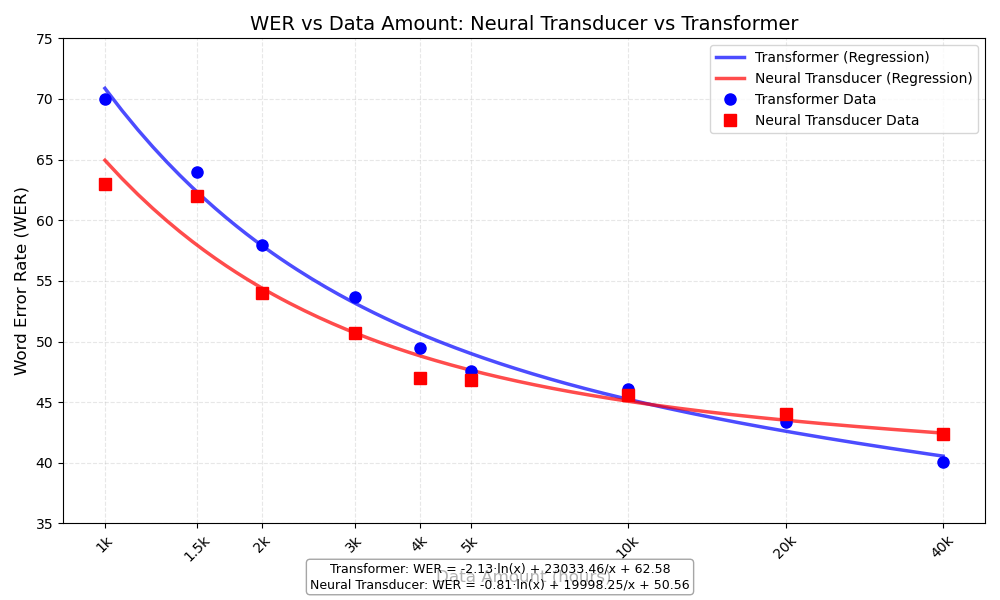
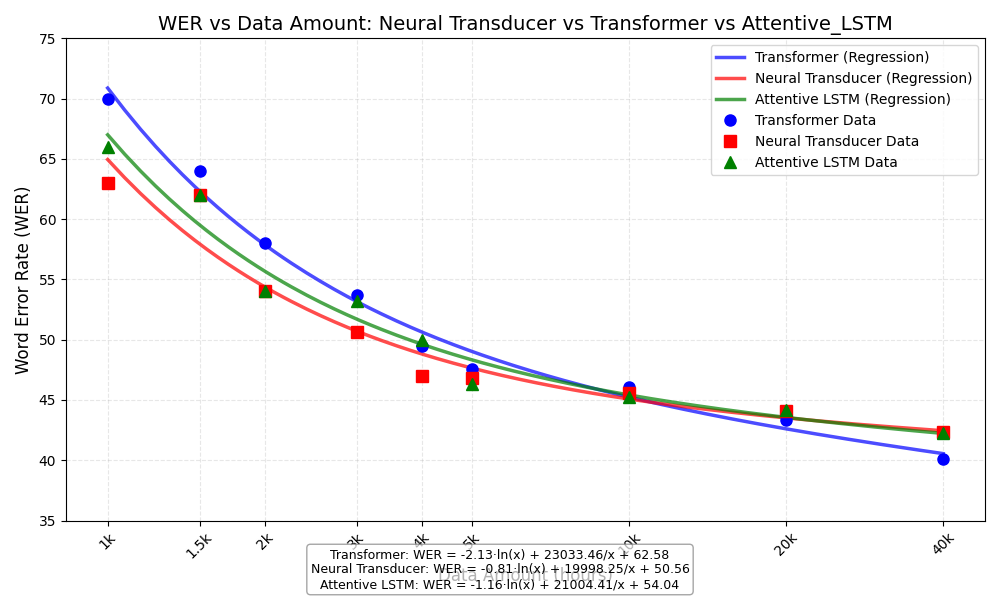
2024_results

diff --git a/eng_us_data/graph.py b/eng_us_data/graph.py
@@ -6,6 +6,7 @@ from scipy.optimize import curve_fit
 data_amounts = [1000, 1500, 2000, 3000, 4000, 5000, 10000, 20000, 40000]
 transformer_wer = [70, 64, 58, 53.67, 49.5, 47.6, 46.1, 43.35, 40.1]
 neural_wer = [63, 62, 54, 50.67, 47, 46.8, 45.6, 44.05, 42.38]
+attentive_lstm_wer = [66, 62, 54, 53.2, 50, 46.3, 45.21, 44.13, 42.23]
 
 # Logarithmic function for regression
 def log_func(x, a, b, c):
@@ -15,22 +16,25 @@ def log_func(x, a, b, c):
 x_smooth = np.linspace(1000, 40000, 500)
 params_trans, _ = curve_fit(log_func, data_amounts, transformer_wer)
 params_neural, _ = curve_fit(log_func, data_amounts, neural_wer)
+params_atten, _ = curve_fit(log_func, data_amounts, attentive_lstm_wer)
 trans_pred = log_func(x_smooth, *params_trans)
 neural_pred = log_func(x_smooth, *params_neural)
+atten_pred = log_func(x_smooth, *params_atten)
 
 # Plot setup
 plt.figure(figsize=(10, 6))
 plt.plot(x_smooth, trans_pred, 'b-', linewidth=2.5, alpha=0.7, label='Transformer (Regression)')
 plt.plot(x_smooth, neural_pred, 'r-', linewidth=2.5, alpha=0.7, label='Neural Transducer (Regression)')
+plt.plot(x_smooth, atten_pred, 'g-', linewidth=2.5, alpha=0.7, label='Attentive LSTM (Regression)')
 plt.plot(data_amounts, transformer_wer, 'bo', markersize=8, label='Transformer Data')
 plt.plot(data_amounts, neural_wer, 'rs', markersize=8, label='Neural Transducer Data')
-
+plt.plot(data_amounts, attentive_lstm_wer, 'g^', markersize=8, label='Attentive LSTM Data')
 # Formatting
 plt.xscale('log', base=2)
 plt.xticks(data_amounts, ['1k', '1.5k', '2k', '3k', '4k', '5k', '10k', '20k', '40k'], rotation=45)
 plt.xlabel('Data Amount (hours)', fontsize=12)
 plt.ylabel('Word Error Rate (WER)', fontsize=12)
-plt.title('WER vs Data Amount: Neural Transducer vs Transformer', fontsize=14)
+plt.title('WER vs Data Amount: Neural Transducer vs Transformer vs Attentive_LSTM', fontsize=14)
 plt.legend()
 plt.grid(True, which="both", ls="--", alpha=0.3)
 plt.ylim(35, 75)
@@ -38,7 +42,8 @@ plt.tight_layout()
 
 # Add regression equations
 eq_text = (f'Transformer: WER = {params_trans[0]:.2f}·ln(x) + {params_trans[1]:.2f}/x + {params_trans[2]:.2f}\n'
-           f'Neural Transducer: WER = {params_neural[0]:.2f}·ln(x) + {params_neural[1]:.2f}/x + {params_neural[2]:.2f}')
+           f'Neural Transducer: WER = {params_neural[0]:.2f}·ln(x) + {params_neural[1]:.2f}/x + {params_neural[2]:.2f}\n'
+           f'Attentive LSTM: WER = {params_atten[0]:.2f}·ln(x) + {params_atten[1]:.2f}/x + {params_atten[2]:.2f}')
 plt.annotate(eq_text, xy=(0.5, 0.02), xycoords='figure fraction', 
              ha='center', fontsize=9, bbox=dict(boxstyle="round,pad=0.3", fc="white", ec="gray", alpha=0.7))
 

diff --git a/README.md b/README.md
@@ -1,72 +1,72 @@
 # Our Results
 
-| Language                 | Pair n-Gram Model<br/>(baseline 2020) | Encoder-decoder Transformer<br/>(baseline 2020) | Neural Transducer<br/>(baseline 2021/22) | GRU (Hard Attention)<br/>(baseline 2024) |
-|--------------------------|---------------------------------------|-------------------------------------------------|------------------------------------------|------------------------------------------|
-| Adyghe                   | 27.00                                 | 39.00                                           | 20.00                                    | 41.00                                    |
-| Arabic                   | 43.00                                 | 43.00                                           | 53.00                                    | 58.00                                    |
-| Armenian (Eastern)       | 17.00                                 | 16.00                                           | 15.00                                    | 58.00                                    |
-| Assamese                 | 14.00                                 | 15.00                                           | 7.00                                     | 15.00                                    |
-| Belarusian               | 7.00                                  | 6.00                                            | 2.00                                     | 10.00                                    |
-| Bengali                  | 70.00                                 | 78.00                                           | 68.00                                    | 80.00                                    |
-| Bulgarian                | 37.00                                 | 30.00                                           | 32.00                                    | 50.00                                    |
-| Burmese                  | 39.00                                 | 41.00                                           | 29.00                                    |                                          |
-| Cebuano                  | 22.00                                 | 26.00                                           | 20.00                                    | 53.00                                    |
-| Central Khmer            | 56.00                                 | 43.00                                           | 31.00                                    | 52.00                                    |
-| Dutch                    | 32.00                                 | 29.00                                           | 24.00                                    | 37.00                                    |
-| Eastern Lawa             | 44.00                                 | 24.00                                           | 8.00                                     | 47.00                                    |
-| English                  | 70.00                                 | 70.00                                           | 63.00                                    | 73.00                                    |
-| French                   | 31.00                                 | 29.00                                           | 23.00                                    | 46.00                                    |
-| Georgian                 | 0.00                                  | 4.00                                            | 0.00                                     | 9.00                                     |
-| German                   | 49.00                                 | 56.00                                           | 46.00                                    | 64.00                                    |
-| Greek                    | 27.00                                 | 26.00                                           | 20.00                                    | 41.00                                    |
-| Hindi                    | 23.00                                 | 24.00                                           | 11.00                                    | 39.00                                    |
-| Hungarian                | 9.00                                  | 11.00                                           | 7.00                                     | 17.00                                    |
-| Icelandic                | 35.00                                 | 24.00                                           | 12.00                                    | 36.00                                    |
-| Indonesian               | 58.00                                 | 52.00                                           | 64.00                                    | 62.00                                    |
-| Irish                    | 57.00                                 | 46.00                                           | 43.00                                    | 53.00                                    |
-| Italian                  | 22.00                                 | 21.00                                           | 15.00                                    | 30.00                                    |
-| Japanese (Hiragana)      | 23.00                                 | 20.00                                           | 10.00                                    | 21.00                                    |
-| Korean                   | 81.00                                 | 89.00                                           | 23.00                                    | 98.00                                    |
-| Latvian                  | 51.00                                 | 51.00                                           | 51.00                                    | 54.00                                    |
-| Lithuanian               | 32.00                                 | 35.00                                           | 33.00                                    | 44.00                                    |
-| Macedonian               | 6.00                                  | 5.00                                            | 5.00                                     | 17.00                                    |
-| Maltese (Latin)          | 27.00                                 | 24.00                                           | 17.00                                    | 31.00                                    |
-| Norwegian Nynorsk        | 61.00                                 | 69.00                                           | 66.00                                    | 68.00                                    |
-| Pashto                   | 70.00                                 | 68.00                                           | 67.00                                    | 68.00                                    |
-| Persian (Classical)      | 51.00                                 | 58.00                                           | 57.00                                    | 60.00                                    |
-| Persian (Iranian)        | 66.00                                 | 63.00                                           | 65.00                                    | 69.00                                    |
-| Romanian                 | 10.00                                 | 17.00                                           | 9.00                                     | 32.00                                    |
-| Russian                  | 31.00                                 | 21.00                                           | 23.00                                    | 35.00                                    |
-| Serbo-Croatian (Latin)   | 84.00                                 | 69.00                                           | 64.00                                    | 72.00                                    |
-| Shan                     | 6.00                                  | 10.00                                           | 5.00                                     | 21.00                                    |
-| Slovenian                | 73.00                                 | 52.00                                           | 56.00                                    | 62.00                                    |
-| Spanish                  | 3.00                                  | 10.00                                           | 4.00                                     | 18.00                                    |
-| Swedish                  | 67.00                                 | 68.00                                           | 59.00                                    | 68.00                                    |
-| Tagalog                  | 11.00                                 | 17.00                                           | 13.00                                    | 20.00                                    |
-| Thai                     | 70.00                                 | 49.00                                           | 39.00                                    | 62.00                                    |
-| Ukrainian                | 27.00                                 | 26.00                                           | 19.00                                    | 23.00                                    |
-| Urdu                     | 67.00                                 | 66.00                                           | 72.00                                    | 81.00                                    |
-| Vietnamese (Hanoi)       | 44.00                                 | 20.00                                           | 5.00                                     | 12.00                                    |
-| Welsh                    | 33.00                                 | 20.00                                           | 12.00                                    | 27.00                                    |
-| Welsh (Southern Dialect) | 28.00                                 | 18.00                                           | 13.00                                    | 27.00                                    |
-| **Macro-average WER**    | **38.53**                             | **36.13**                                       | **29.79**                                | **44.98**                                |
+| Language                 | Pair n-Gram Model<br/>(baseline 2020) | Encoder-decoder Transformer<br/>(baseline 2020) | Neural Transducer<br/>(baseline 2021/22) | Attentive_LSTM<br/>(baseline 2024)|
+|--------------------------|---------------------------------------|-------------------------------------------------|------------------------------------------|-----------------------------------|
+| Adyghe                   | 27.00                                 | 39.00                                           | 20.00                                    | 30.00                             |
+| Arabic                   | 43.00                                 | 43.00                                           | 53.00                                    | 45.00                             |
+| Armenian (Eastern)       | 17.00                                 | 16.00                                           | 15.00                                    | 20.00                             |
+| Assamese                 | 14.00                                 | 15.00                                           | 7.00                                     | 12.00                             |
+| Belarusian               | 7.00                                  | 6.00                                            | 2.00                                     | 2.00                              |
+| Bengali                  | 70.00                                 | 78.00                                           | 68.00                                    | 67.00                             |
+| Bulgarian                | 37.00                                 | 30.00                                           | 32.00                                    | 27.00                             |
+| Burmese                  | 39.00                                 | 41.00                                           | 29.00                                    | 35.00                             |
+| Cebuano                  | 22.00                                 | 26.00                                           | 20.00                                    | 20.00                             |
+| Central Khmer            | 56.00                                 | 43.00                                           | 31.00                                    | 35.00                             |
+| Dutch                    | 32.00                                 | 29.00                                           | 24.00                                    | 23.00                             |
+| Eastern Lawa             | 44.00                                 | 24.00                                           | 8.00                                     | 12.00                             |
+| English                  | 70.00                                 | 70.00                                           | 63.00                                    | 66.00                             |
+| French                   | 31.00                                 | 29.00                                           | 23.00                                    | 27.00                             |
+| Georgian                 | 0.00                                  | 4.00                                            | 0.00                                     | 1.00                              |
+| German                   | 49.00                                 | 56.00                                           | 46.00                                    | 45.00                             |
+| Greek                    | 27.00                                 | 26.00                                           | 20.00                                    | 27.00                             |
+| Hindi                    | 23.00                                 | 24.00                                           | 11.00                                    | 13.00                             |
+| Hungarian                | 9.00                                  | 11.00                                           | 7.00                                     | 8.00                              |
+| Icelandic                | 35.00                                 | 24.00                                           | 12.00                                    | 16.00                             |
+| Indonesian               | 58.00                                 | 52.00                                           | 64.00                                    | 73.00                             |
+| Irish                    | 57.00                                 | 46.00                                           | 43.00                                    | 39.00                             |
+| Italian                  | 22.00                                 | 21.00                                           | 15.00                                    | 16.00                             |
+| Japanese (Hiragana)      | 23.00                                 | 20.00                                           | 10.00                                    | 12.00                             |
+| Korean                   | 81.00                                 | 89.00                                           | 23.00                                    | 100.00                            |
+| Latvian                  | 51.00                                 | 51.00                                           | 51.00                                    | 50.00                             |
+| Lithuanian               | 32.00                                 | 35.00                                           | 33.00                                    | 31.00                             |
+| Macedonian               | 6.00                                  | 5.00                                            | 5.00                                     | 5.00                              |
+| Maltese (Latin)          | 27.00                                 | 24.00                                           | 17.00                                    | 22.00                             |
+| Norwegian Nynorsk        | 61.00                                 | 69.00                                           | 66.00                                    | 69.00                             |
+| Pashto                   | 70.00                                 | 68.00                                           | 67.00                                    | 66.00                             |
+| Persian (Classical)      | 51.00                                 | 58.00                                           | 57.00                                    | 51.00                             |
+| Persian (Iranian)        | 66.00                                 | 63.00                                           | 65.00                                    | 65.00                             |
+| Romanian                 | 10.00                                 | 17.00                                           | 9.00                                     | 17.00                             |
+| Russian                  | 31.00                                 | 21.00                                           | 23.00                                    | 25.00                             |
+| Serbo-Croatian (Latin)   | 84.00                                 | 69.00                                           | 64.00                                    | 69.00                             |
+| Shan                     | 6.00                                  | 10.00                                           | 5.00                                     | 4.00                              |
+| Slovenian                | 73.00                                 | 52.00                                           | 56.00                                    | 50.00                             |
+| Spanish                  | 3.00                                  | 10.00                                           | 4.00                                     | 3.00                              |
+| Swedish                  | 67.00                                 | 68.00                                           | 59.00                                    | 61.00                             |
+| Tagalog                  | 11.00                                 | 17.00                                           | 13.00                                    | 11.00                             |
+| Thai                     | 70.00                                 | 49.00                                           | 39.00                                    | 42.00                             |
+| Ukrainian                | 27.00                                 | 26.00                                           | 19.00                                    | 18.00                             |
+| Urdu                     | 67.00                                 | 66.00                                           | 72.00                                    | 77.00                             |
+| Vietnamese (Hanoi)       | 44.00                                 | 20.00                                           | 5.00                                     | 4.00                              |
+| Welsh                    | 33.00                                 | 20.00                                           | 12.00                                    | 19.00                             |
+| Welsh (Southern Dialect) | 28.00                                 | 18.00                                           | 13.00                                    | 13.00                             |
+| **Macro-average WER**    | **38.53**                             | **36.13**                                       | **29.79**                                | **32.56**                         |
 
 ---
 # How Data Amount Affects Performance of Transformer Model
 
 Comparing best performing model and transformer on different amount fo English data
 
-| Data Amount | Neutral Transducer | Encoder-Decoder Transformer |
-|-------------|--------------------|-----------------------------|
-| 1k          | 63.00              | 70.00                       |
-| 1.5k        | 62.00              | 64.00                       |
-| 2k          | 54.00              | 58.00                       |
-| 3k          | 50.67              | 53.67                       |
-| 4k          | 47.00              | 49.50                       |
-| 5k          | 46.80              | 47.60                       |
-| 10k         | 45.60              | 46.10                       |
-| 20k         | 44.05              | 43.35                       |
-| 40k         | 42.38              | 40.10                       |
+| Data Amount | Neutral Transducer | Encoder-Decoder Transformer | Attentive LSTM |
+|-------------|--------------------|-----------------------------|----------------|
+| 1k          | 63.00              | 70.00                       | 66.00          |
+| 1.5k        | 62.00              | 64.00                       | 62.00          |
+| 2k          | 54.00              | 58.00                       | 54.00          |
+| 3k          | 50.67              | 53.67                       | 53.20          |
+| 4k          | 47.00              | 49.50                       | 50.00          |
+| 5k          | 46.80              | 47.60                       | 46.30          |
+| 10k         | 45.60              | 46.10                       | 45.21          |
+| 20k         | 44.05              | 43.35                       | 44.13          |
+| 40k         | 42.38              | 40.10                       | 42.23          |
 
 ![transformer-analysis](eng_us_data/graph.png)
 
